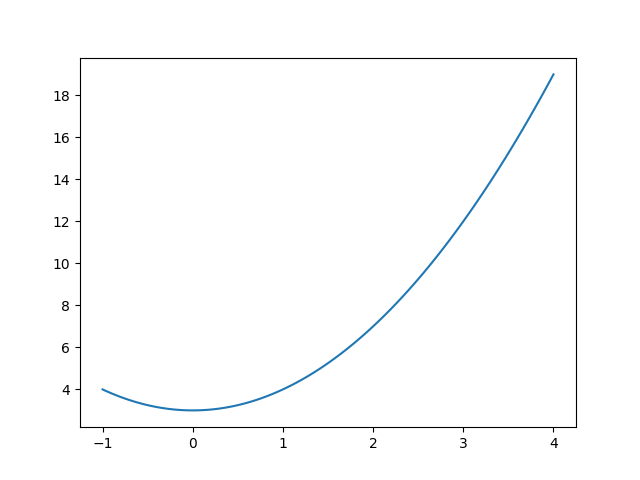
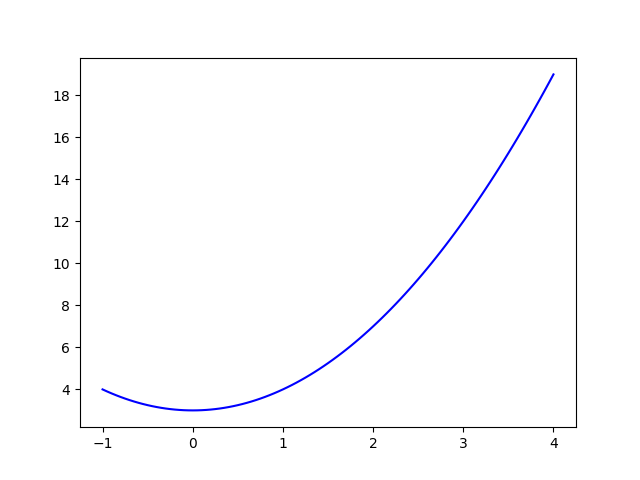
add color selection

diff --git a/templates/plot_func.html b/templates/plot_func.html
@@ -22,6 +22,15 @@
             <input type="number" name="b" step="any" value="{{ b }}">
         </label>
 
+        <label>
+            color =
+            <select name="color">
+                <option value="black" {% if color == "black" %}selected{% endif %}>black</option>
+                <option value="red" {% if color == "red" %}selected{% endif %}>red</option>
+                <option value="blue" {% if color == "blue" %}selected{% endif %}>blue</option>
+            </select>
+        </label>
+
         <br><br>
         <button type="submit">Plot</button>
     </form>

diff --git a/webapp.py b/webapp.py
@@ -11,6 +11,9 @@ app = Flask(__name__)  # To run, use flask --app webapp run --debug
 @app.route("/")  # http://127.0.0.1:5000/
 def main_page():
     user_input = request.args.get("func_expr", "")  # TODO: real input
+
+    color = request.args.get("color", "black")
+
     a_str = request.args.get("a", "-10")
     b_str = request.args.get("b", "10")
 
@@ -24,14 +27,15 @@ def main_page():
     plot_ready = False
 
     if user_input.strip() != '':
-        plot_expression(user_input, a, b, "static/test.png")
+        plot_expression(user_input, a, b, "static/test.png", color)
         plot_ready = True
 
     return render_template('plot_func.html', 
                            plot_ready=plot_ready, 
                            func_expr=user_input, 
                            a=a_str, 
-                           b=b_str)  # Add parameters for the template
+                           b=b_str,
+                           color=color)  # Add parameters for the template
 
 @app.route("/test")  # http://127.0.0.1:5000/test
 def test_route():

diff --git a/calcs.py b/calcs.py
@@ -11,7 +11,7 @@ def f(x):
     return x**3 - 3*x + 2
 
 
-def plot_expression(expr_str, a, b, plot_file):
+def plot_expression(expr_str, a, b, plot_file, color):
     n = 100
 
     x_vals = np.linspace(a, b, n + 1)
@@ -21,7 +21,7 @@ def plot_expression(expr_str, a, b, plot_file):
         y = eval(expr_str, {"x": x}) ## Unsafe!!!
         y_vals.append(y)
 
-    plt.plot(x_vals, y_vals)
+    plt.plot(x_vals, y_vals, color=color)
     plt.savefig(plot_file)
     plt.clf()
 
